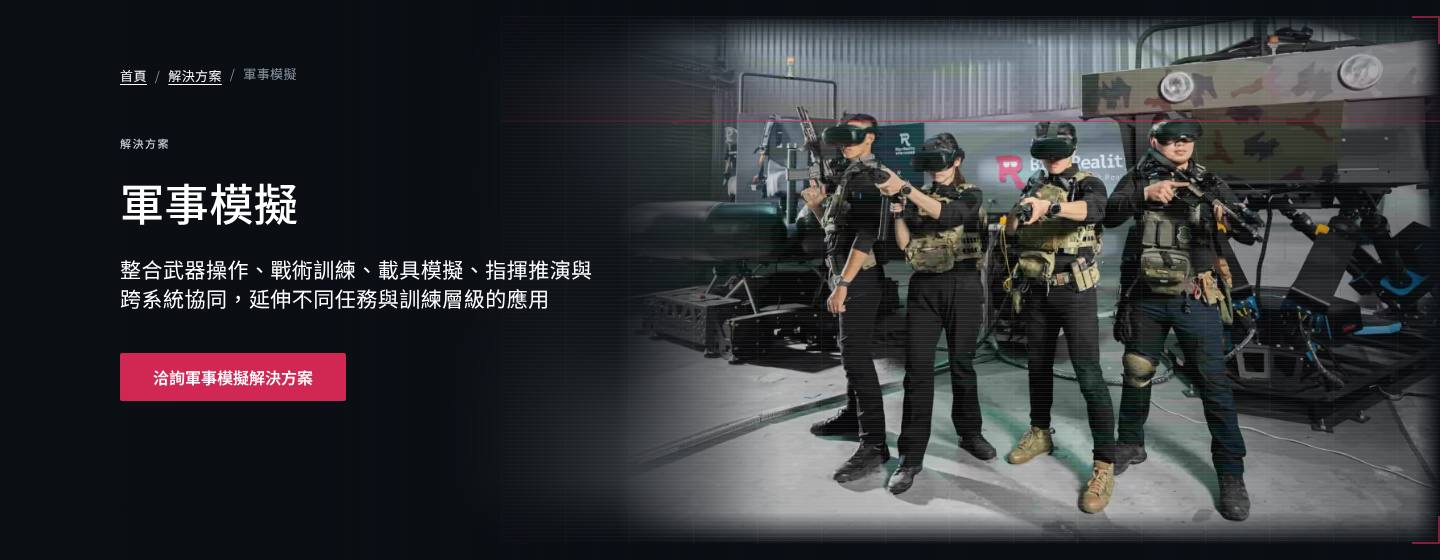
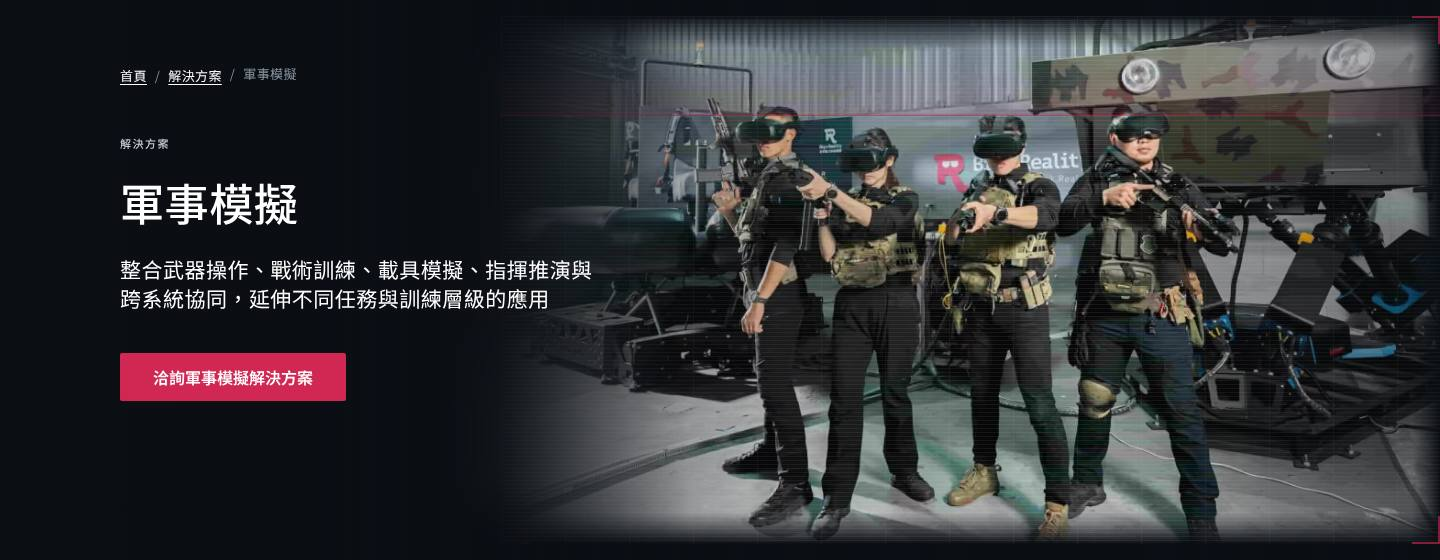
fix(solutions): fill the shared 16:9 hero (cover, centred focus crop); centre every hero image on mobile
Per company decision the solution heroes now fill their shared 16:9 box (cover),
cropped around each image's approved vertical focus and always centred
horizontally, so no page shows bars or an offset picture. Below 1024 px every
PageHero image (solutions and products) is centred in its frame: the desktop
right-aligned scene focus no longer pushes narrower images to one side.

qa:solution-heroes checks cover, centred crop and viewport centring (96 checks);
qa:hero-framing and qa:media-composition expect cover for uniform solution heroes
and keep contain for product heroes. Screenshots refreshed.

Claude-Session: https://claude.ai/code/session_01113vnfdaBiv4geK9uQYtzE

diff --git a/docs/reviews/solution-heroes/README.md b/docs/reviews/solution-heroes/README.md
@@ -1,33 +1,42 @@
 # 解決方案 Hero 一致化
 
-頁面：`/tw|en|jp/solutions/{military,police,fire-rescue,smart-city}/`（同一元件也套用到 MUM-T、NOVA）。
-程式：`src/components/PageHero.astro`（新增 `uniformMedia`）、`src/components/SolutionLanding.astro`（啟用）。
+頁面：`/tw|en|jp/solutions/{military,police,fire-rescue,smart-city}/`（同一元件也套用於 MUM-T、NOVA）。
+程式：`src/components/PageHero.astro`（新增 `uniformMedia`、手機置中）、`src/components/SolutionLanding.astro`（啟用 `uniformMedia`）。
 
 ## 問題
 
-四張 Hero 原圖比例不同（軍事 1.56、警勤 1.73、智慧城市 1.75、消防 1.78）。Hero 會依每張圖自身比例決定可見框，
-所以每頁圖片寬度、左緣與高度都不同（1440px 寬度 824～939px；1024px 高度 403～459px；390px 寬度 307～350px）。
-另外文字欄垂直置中，導覽列、H1 高度也會隨段落行數上下移動；EN／JP 文字較長時 Hero 變高，圖片框又跟著變大。
+四張 Hero 原圖比例不同：軍事 1.56、警勤 1.73、智慧城市 1.75、消防 1.78。原本 Hero 以每張圖自身的比例決定可見框，造成：
 
-## 修正
+- 各頁圖片寬度、左緣、高度都不同：1440px 時寬度介於 824～939px；1024px 時高度介於 403～459px；390px 時寬度介於 307～350px。
+- 手機版（單欄）沿用桌面「靠右」的焦點，比例較窄的圖片會偏向一側。例如軍事圖在 390px 時偏右約 21px。
+- 文字欄垂直置中，導覽列與 H1 的高度會隨段落行數移動。EN／JP 文字較長時 Hero 變高，圖片框也跟著變大。
 
-- 所有解決方案 Hero 使用同一個 16:9 圖片框：位置、尺寸、HUD 角標在各頁、各寬度都相同。
-- **不裁切**：依既有規範（`qa:hero-framing`、`qa:media-composition`），圖片維持 `contain`，主體完整。
-  比例較窄的軍事圖在桌面靠右、手機置中，並沿用原本的柔邊遮罩與同圖模糊背景，不出現硬邊。
-- 桌面文字欄改為頂端對齊，各頁導覽列與 H1 起始高度一致；圖片框高度固定 528px，EN／JP 文字較長時也不會改變大小。
-- 原圖、alt、文案、URL、SEO、CTA 都沒有改動；產品頁 Hero 沒有套用此設定，維持原樣。
+## 修正（依公司決定，Hero 改為裁切填滿）
+
+- 所有解決方案 Hero 使用同一個 16:9 圖片框，各頁、各寬度的位置、尺寸、HUD 角標都相同。
+- 圖片改為 `cover` 填滿圖片框，不再有黑邊或偏移。
+  - 裁切焦點：水平固定置中（50%）；垂直沿用 `primary-images` 已核准的焦點（軍事 28%、警勤 35%、消防與智慧城市 50%）。
+  - 軍事圖約裁掉上下 12%，人物的頭與腳都完整保留。
+- 手機／平板（<1024px）：所有 Hero 圖片在框內一律置中。此項也套用於產品頁，避免桌面靠右的設定影響單欄版面。
+- 桌面版：文字欄改為頂端對齊；圖片框高度固定 528px，EN／JP 文字較長時不會改變圖片大小。
+- 未修改：原圖、alt、文案、URL、SEO、CTA。產品頁在桌面版的 Hero 維持原本的 `contain`。
 
 ## 回歸檢查
 
-`npm run qa:solution-heroes`（已加入 CI）：三語 × 390／768／1024／1280／1440px，檢查每一個解決方案 Hero：
+`npm run qa:solution-heroes`（已加入 CI）的範圍是三語 × 390／768／1024／1280／1440px，涵蓋全部解決方案頁。檢查項目：
 
-- 圖片框為 16:9、圖片 `contain` 完整顯示且已解碼。
-- 各頁圖片框尺寸與水平位置相同；≥1024px 時垂直位置也相同（手機為上下堆疊，圖片位置跟隨文字長度）。
-- 文字欄起始高度相同；沒有水平捲動。
+- 圖片以 `cover` 填滿 16:9 圖片框，水平置中，且已正常解碼。
+- 各頁圖片框的尺寸與水平位置相同；≥1024px 時垂直位置也相同。手機為上下堆疊，圖片的垂直位置會隨文字長度變動。
+- 手機／平板寬度時，圖片框在畫面中置中。
+- 文字起始高度相同，且沒有水平捲動。
 
-修正前：`FAIL: 52/90`；修正後：`PASS: 90 checks`。
+結果：修正前 `FAIL`，修正後 `PASS 96 checks`。
+
+`qa:hero-framing`、`qa:media-composition` 已同步調整規則：解決方案 Hero 預期為 `cover`，產品 Hero 仍為 `contain`。
+
+全站手機檢查：216 個頁面在 390／768px 下，所有照片與 Hero 圖都置中。
 
 ## 截圖
 
-- `compare-before-1440.jpg`／`compare-after-1440.jpg`、`compare-before-390.jpg`／`compare-after-390.jpg`：四頁並列對照。
-- `before-<slug>-<width>.jpg`／`after-<slug>-<width>.jpg`：TW 各頁 390／768／1024／1280／1440px。
+- 四頁並列對照：`compare-before-*.jpg`／`compare-after-*.jpg`（1440／768／390px）。
+- 各頁截圖：`before-<slug>-<width>.jpg`／`after-<slug>-<width>.jpg`，為 TW 版 390／768／1024／1280／1440px。
